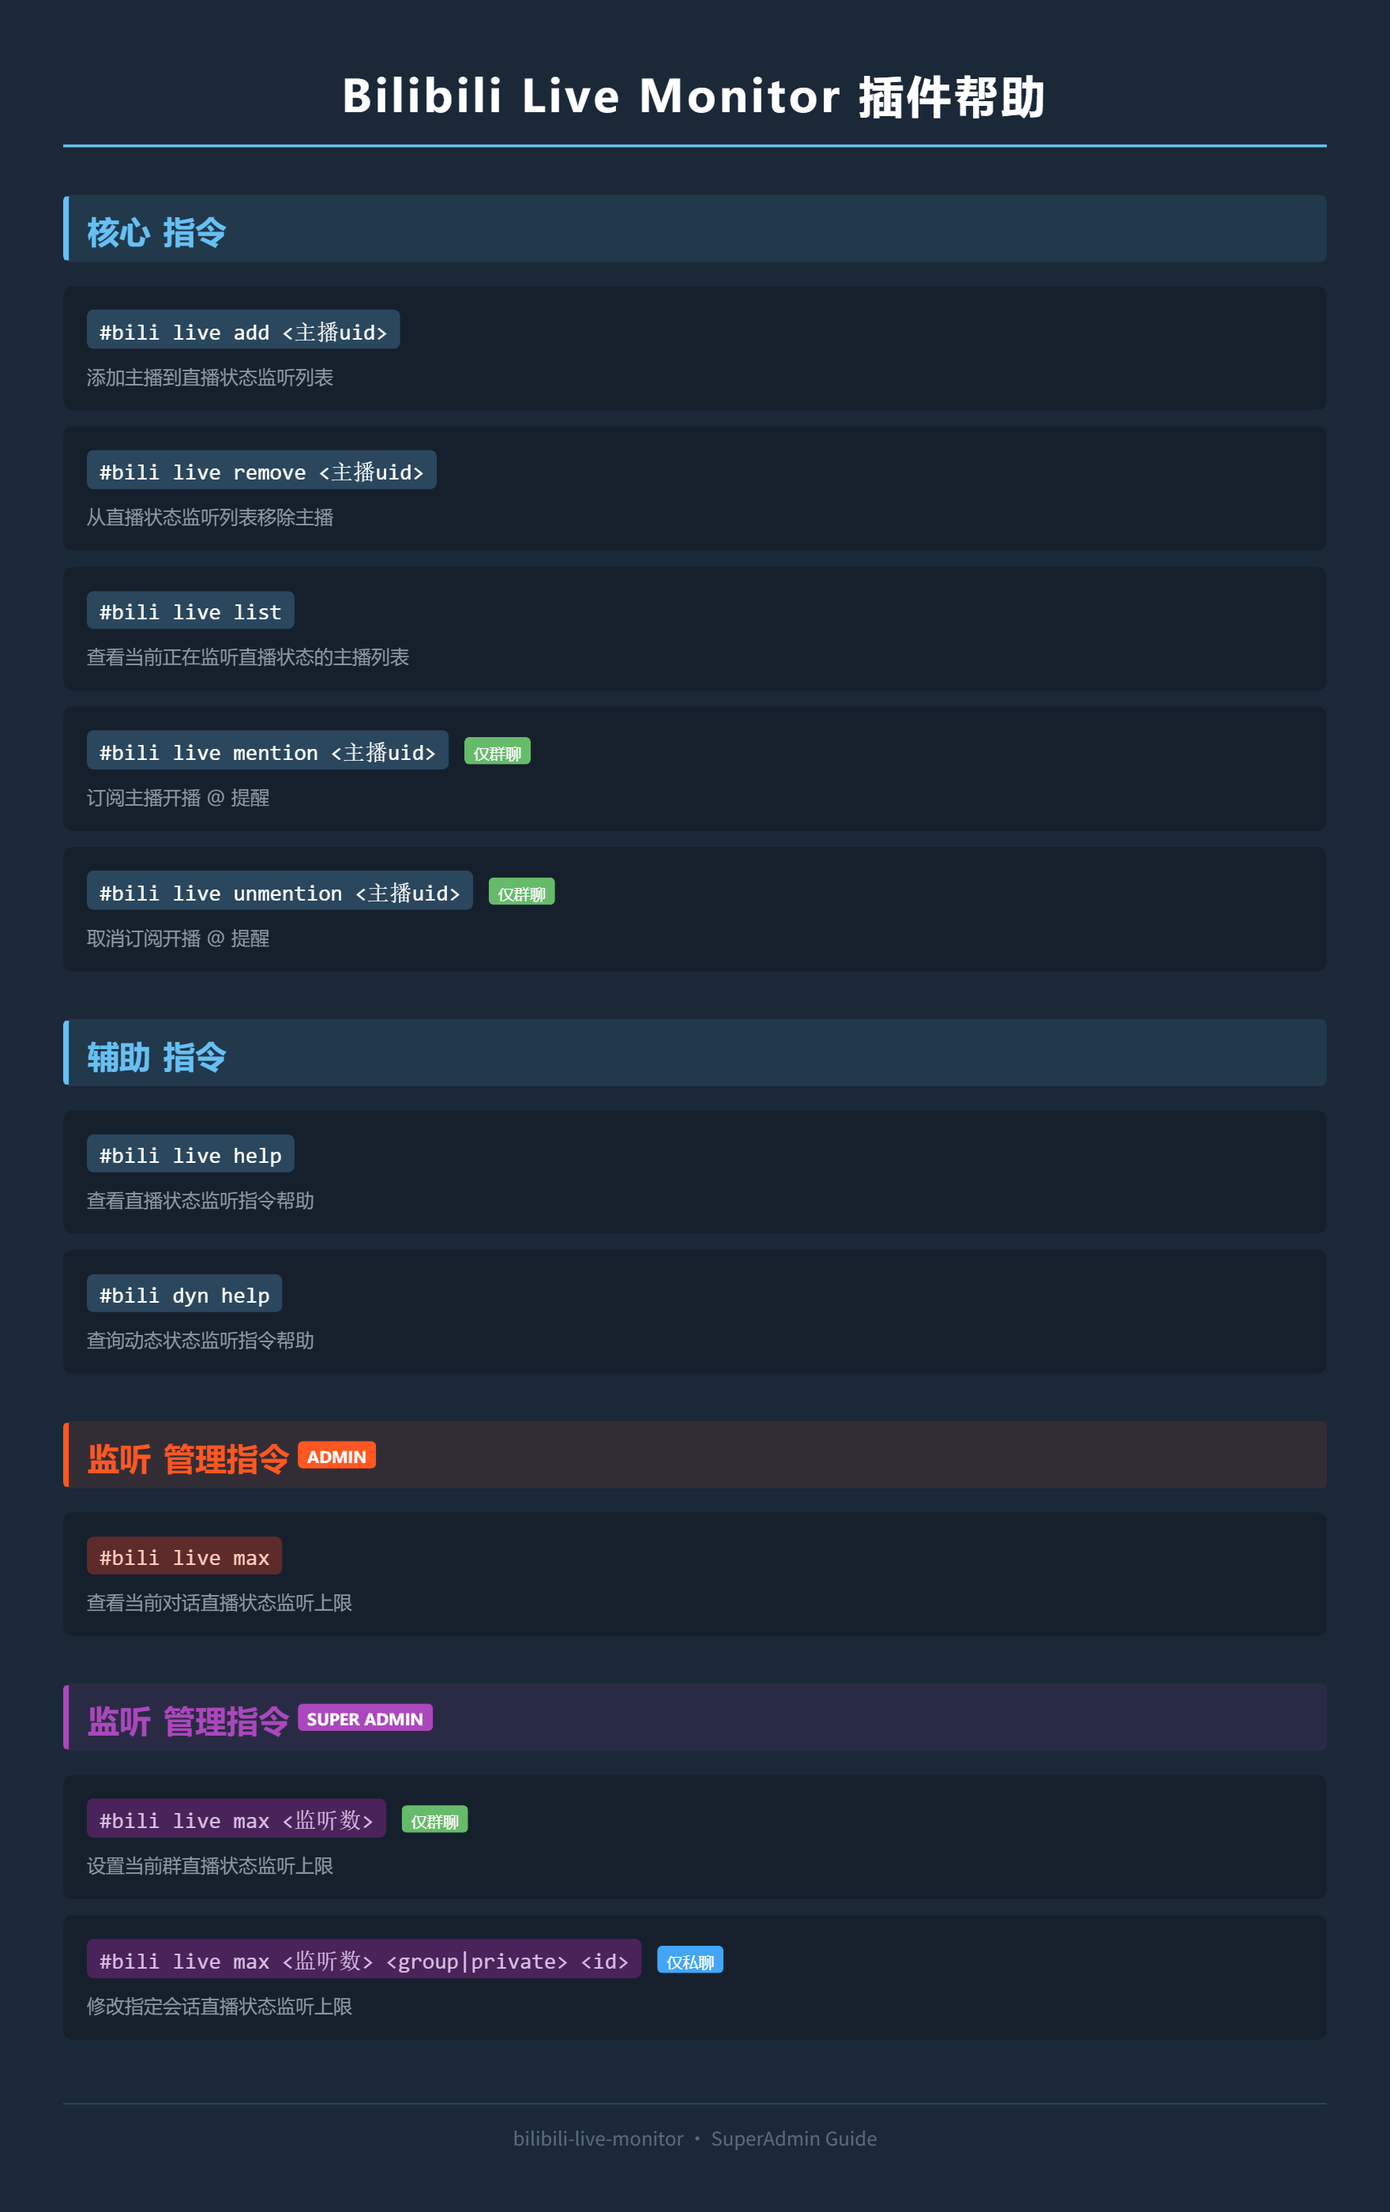
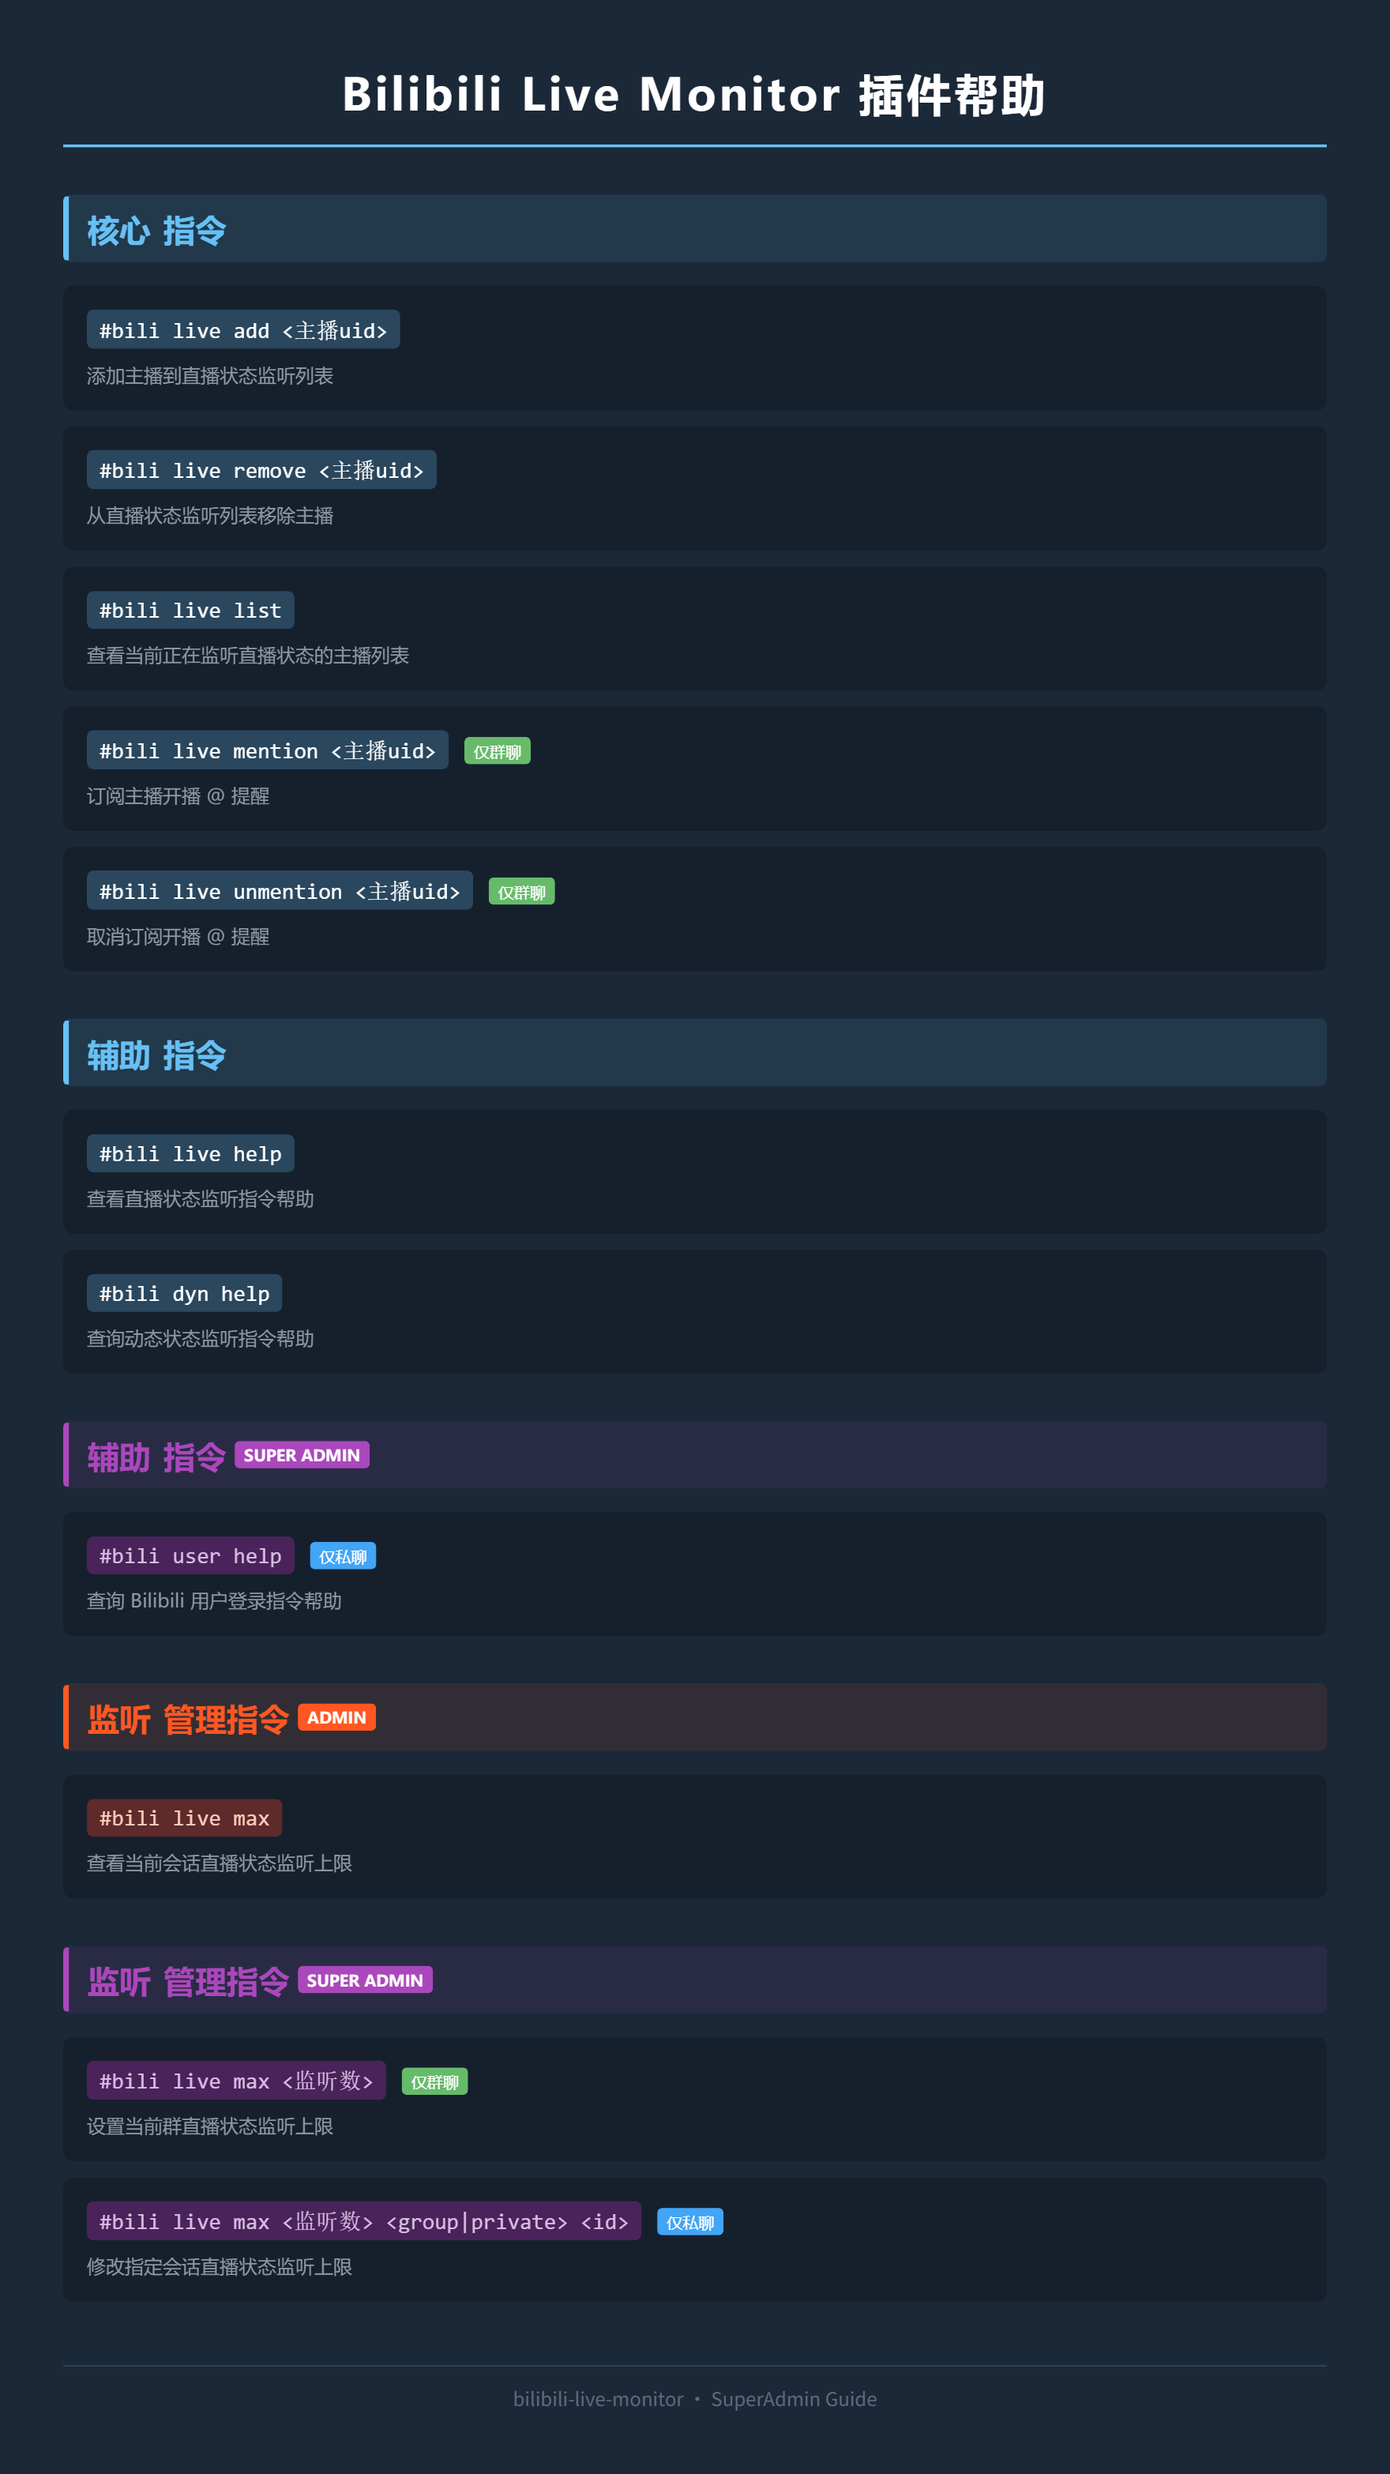
feat(user): 新增 #bili user help 帮助指令并抽离帮助输出逻辑
- 新增 help-message 共享工具: 按角色选版、图片优先/文本回退
- live help 文本改为模板字符串存储并更新内容
- 新增 user help 指令 (仅超管私聊)

Changed region(s): [[0.0312, 0.0621, 0.9688, 0.9321], [0.25, 0.0311, 0.75, 0.0621], [0.5312, 0.9632, 0.5625, 0.9943]]

diff --git a/src/handlers/live/help-live.handler.ts b/src/handlers/live/help-live.handler.ts
@@ -1,19 +1,11 @@
 /**
- * 输出 Bilibili 监听插件指令帮助
- * 默认发送按角色生成的帮助图片, 图片缺失或发送失败时回退文本帮助
- *
- * 帮助版本由角色与会话类型共同决定:
- * - 群聊超管输出 Admin 版, 仅私聊超管输出 SuperAdmin 版
- * - 私聊用户 (privateUser) 等同 admin 权限组, 输出 Admin 版
+ * 输出 Bilibili Live Monitor 插件指令帮助
+ * 帮助文本按模板字符串存储, 图片优先/文本回退逻辑见 src/utils/help-message.ts
  */
 
-import fs from 'fs';
-import { join, resolve } from 'path';
 import { NapCatPluginContext } from 'napcat-types/napcat-onebot/network/plugin/types';
 import { OB11Message } from 'napcat-types/napcat-onebot';
-import { sendReply, sendReplyByToInfo, createImageMessage } from '../message.handler';
-import { getUserRole, UserRole } from '../../core/admin';
-import { pluginState } from '../../core/state';
+import { sendHelpMessage, HelpVariant } from '../../utils/help-message';
 
 /** 帮助图片文件名 */
 const HELP_IMAGE = {
@@ -22,111 +14,69 @@ const HELP_IMAGE = {
     superAdmin: 'bilibili-live-monitor-SuperAdmin.png',
 } as const;
 
-/** 帮助图片版本 */
-type HelpVariant = keyof typeof HELP_IMAGE;
-
 /** 按帮助版本的文本帮助 (图片降级用), Admin 版同时用于私聊用户与群聊超管 */
 const HELP_TEXT_MAP: Record<HelpVariant, string> = {
-    user: [
-        '【Bilibili Live Monitor 插件帮助】',
-        '',
-        '核心指令:',
-        '#bili live add <主播uid>: 添加主播到直播状态监听列表',
-        '#bili live remove <主播uid>: 从直播状态监听列表移除主播',
-        '#bili live list: 查看当前正在监听直播状态的主播列表',
-        '#bili live mention <主播uid>: 订阅主播开播 @ 提醒 [仅群聊]',
-        '#bili live unmention <主播uid>: 取消订阅开播 @ 提醒 [仅群聊]',
-        '',
-        '辅助指令:',
-        '#bili live help: 查看直播状态监听指令帮助',
-        '#bili dyn help: 查询动态状态监听指令帮助',
-    ].join('\n'),
-    admin: [
-        '【Bilibili Live Monitor 插件帮助】',
-        '',
-        '核心指令:',
-        '#bili live add <主播uid>: 添加主播到直播状态监听列表',
-        '#bili live remove <主播uid>: 从直播状态监听列表移除主播',
-        '#bili live list: 查看当前正在监听直播状态的主播列表',
-        '#bili live mention <主播uid>: 订阅主播开播 @ 提醒 [仅群聊]',
-        '#bili live unmention <主播uid>: 取消订阅开播 @ 提醒 [仅群聊]',
-        '',
-        '辅助指令:',
-        '#bili live help: 查看直播状态监听指令帮助',
-        '#bili dyn help: 查询动态状态监听指令帮助',
-        '',
-        '监听管理指令 [管理员]:',
-        '#bili live max: 查看当前对话直播状态监听上限',
-    ].join('\n'),
-    superAdmin: [
-        '【Bilibili Live Monitor 插件帮助】',
-        '',
-        '核心指令:',
-        '#bili live add <主播uid>: 添加主播到直播状态监听列表',
-        '#bili live remove <主播uid>: 从直播状态监听列表移除主播',
-        '#bili live list: 查看当前正在监听直播状态的主播列表',
-        '#bili live mention <主播uid>: 订阅主播开播 @ 提醒 [仅群聊]',
-        '#bili live unmention <主播uid>: 取消订阅开播 @ 提醒 [仅群聊]',
-        '',
-        '辅助指令:',
-        '#bili live help: 查看直播状态监听指令帮助',
-        '#bili dyn help: 查询动态状态监听指令帮助',
-        '',
-        '监听管理指令 [管理员]:',
-        '#bili live max: 查看当前对话直播状态监听上限',
-        '',
-        '监听管理指令 [超管]:',
-        '#bili live max <监听数>: 设置当前群直播状态监听上限 [仅群聊]',
-        '#bili live max <监听数> <group|private> <id>: 修改指定会话直播状态监听上限 [仅私聊]',
-    ].join('\n'),
+    user: `【Bilibili Live Monitor 插件帮助】
+
+核心指令:
+#bili live add <主播uid>: 添加主播到直播状态监听列表
+#bili live remove <主播uid>: 从直播状态监听列表移除主播
+#bili live list: 查看当前正在监听直播状态的主播列表
+#bili live mention <主播uid>: 订阅主播开播 @ 提醒 [仅群聊]
+#bili live unmention <主播uid>: 取消订阅开播 @ 提醒 [仅群聊]
+
+辅助指令:
+#bili live help: 查看直播状态监听指令帮助
+#bili dyn help: 查询动态状态监听指令帮助
+`,
+    admin: `【Bilibili Live Monitor 插件帮助】
+
+核心指令:
+#bili live add <主播uid>: 添加主播到直播状态监听列表
+#bili live remove <主播uid>: 从直播状态监听列表移除主播
+#bili live list: 查看当前正在监听直播状态的主播列表
+#bili live mention <主播uid>: 订阅主播开播 @ 提醒 [仅群聊]
+#bili live unmention <主播uid>: 取消订阅开播 @ 提醒 [仅群聊]
+
+辅助指令:
+#bili live help: 查看直播状态监听指令帮助
+#bili dyn help: 查询动态状态监听指令帮助
+
+监听管理指令 [管理员]:
+#bili live max: 查看当前会话直播状态监听上限
+`,
+    superAdmin: `【Bilibili Live Monitor 插件帮助】
+
+核心指令:
+#bili live add <主播uid>: 添加主播到直播状态监听列表
+#bili live remove <主播uid>: 从直播状态监听列表移除主播
+#bili live list: 查看当前正在监听直播状态的主播列表
+#bili live mention <主播uid>: 订阅主播开播 @ 提醒 [仅群聊]
+#bili live unmention <主播uid>: 取消订阅开播 @ 提醒 [仅群聊]
+
+辅助指令:
+#bili live help: 查看直播状态监听指令帮助
+#bili dyn help: 查询动态状态监听指令帮助
+
+辅助指令 [超管]:
+#bili user help: 查询 Bilibili 用户登录指令帮助 [仅私聊]
+
+监听管理指令 [管理员]:
+#bili live max: 查看当前会话直播状态监听上限
+
+监听管理指令 [超管]:
+#bili live max <监听数>: 设置当前群直播状态监听上限 [仅群聊]
+#bili live max <监听数> <group|private> <id>: 修改指定会话直播状态监听上限 [仅私聊]
+`,
 };
 
-/** 由角色与会话类型决定帮助版本 */
-function getHelpVariant(role: UserRole['role'], isGroup: boolean): HelpVariant {
-    switch (role) {
-        case 'superAdmin':
-            // 群聊超管输出 Admin 版, 私聊超管输出 SuperAdmin 版
-            return isGroup ? 'admin' : 'superAdmin';
-        case 'admin':
-        case 'privateUser':
-            return 'admin';
-        default:
-            return 'user';
-    }
-}
-
 /**
- * 构建帮助图片绝对路径
- * assets 目录位于 ctx.dataPath 的父目录下
- */
-function getHelpImagePath(variant: HelpVariant): string {
-    const assetsDir = join(pluginState.ctx.dataPath, '..', 'assets');
-    return resolve(assetsDir, HELP_IMAGE[variant]);
-}
-
-/**
- * 输出 Bilibili 监听插件指令帮助
+ * 输出 Bilibili Live Monitor 插件指令帮助
  * 优先发送帮助图片, 图片缺失或发送失败时回退文本帮助
  */
 export const helpLiveHandler = async (
     ctx: NapCatPluginContext,
     event: OB11Message,
 ) => {
-    const { message_type, group_id, user_id } = event;
-    const toInfo = {
-        id: message_type === 'group' ? String(group_id) : String(user_id),
-        type: message_type,
-    } as const;
-
-    const { role } = getUserRole(event);
-    const variant = getHelpVariant(role, message_type === 'group');
-
-    // 优先发送帮助图片, 文件缺失或发送失败时回退文本帮助
-    const imagePath = getHelpImagePath(variant);
-    if (fs.existsSync(imagePath)) {
-        const sent = await sendReply(ctx, event, createImageMessage(imagePath));
-        if (sent) return;
-    }
-
-    await sendReplyByToInfo(ctx, toInfo, HELP_TEXT_MAP[variant]);
+    await sendHelpMessage(ctx, event, { imageMap: HELP_IMAGE, textMap: HELP_TEXT_MAP });
 };

diff --git a/src/utils/help-message.ts b/src/utils/help-message.ts
@@ -1,0 +1,76 @@
+/**
+ * 帮助消息输出共享工具
+ * 按角色与会话类型选择帮助版本, 优先发送帮助图片, 图片缺失或发送失败时回退文本帮助
+ *
+ * 帮助版本由角色与会话类型共同决定:
+ * - 群聊超管输出 Admin 版, 仅私聊超管输出 SuperAdmin 版
+ * - 私聊用户 (privateUser) 等同 admin 权限组, 输出 Admin 版
+ */
+
+import fs from 'fs';
+import { join, resolve } from 'path';
+import { NapCatPluginContext } from 'napcat-types/napcat-onebot/network/plugin/types';
+import { OB11Message } from 'napcat-types/napcat-onebot';
+import { sendReply, sendReplyByToInfo, createImageMessage } from '../handlers/message.handler';
+import { getUserRole, UserRole } from '../core/admin';
+import { pluginState } from '../core/state';
+
+/** 帮助版本 */
+export type HelpVariant = 'user' | 'admin' | 'superAdmin';
+
+/** 按帮助版本组织的内容: 帮助图片文件名 + 文本帮助 (图片降级用) */
+export interface HelpContent {
+    imageMap: Record<HelpVariant, string>;
+    textMap: Record<HelpVariant, string>;
+}
+
+/** 由角色与会话类型决定帮助版本 */
+export function getHelpVariant(role: UserRole['role'], isGroup: boolean): HelpVariant {
+    switch (role) {
+        case 'superAdmin':
+            // 群聊超管输出 Admin 版, 私聊超管输出 SuperAdmin 版
+            return isGroup ? 'admin' : 'superAdmin';
+        case 'admin':
+        case 'privateUser':
+            return 'admin';
+        default:
+            return 'user';
+    }
+}
+
+/**
+ * 构建帮助图片绝对路径
+ * assets 目录位于 ctx.dataPath 的父目录下
+ */
+function getHelpImagePath(imageMap: Record<HelpVariant, string>, variant: HelpVariant): string {
+    const assetsDir = join(pluginState.ctx.dataPath, '..', 'assets');
+    return resolve(assetsDir, imageMap[variant]);
+}
+
+/**
+ * 输出指令帮助
+ * 优先发送帮助图片, 图片缺失或发送失败时回退文本帮助
+ */
+export async function sendHelpMessage(
+    ctx: NapCatPluginContext,
+    event: OB11Message,
+    content: HelpContent,
+): Promise<void> {
+    const { message_type, group_id, user_id } = event;
+    const toInfo = {
+        id: message_type === 'group' ? String(group_id) : String(user_id),
+        type: message_type,
+    } as const;
+
+    const { role } = getUserRole(event);
+    const variant = getHelpVariant(role, message_type === 'group');
+
+    // 优先发送帮助图片, 文件缺失或发送失败时回退文本帮助
+    const imagePath = getHelpImagePath(content.imageMap, variant);
+    if (fs.existsSync(imagePath)) {
+        const sent = await sendReply(ctx, event, createImageMessage(imagePath));
+        if (sent) return;
+    }
+
+    await sendReplyByToInfo(ctx, toInfo, content.textMap[variant]);
+}

diff --git a/src/handlers/user/help-user.handler.ts b/src/handlers/user/help-user.handler.ts
@@ -1,0 +1,56 @@
+/**
+ * 输出 Bilibili User Monitor 插件指令帮助 (仅超管私聊)
+ * 帮助文本按模板字符串存储, 图片优先/文本回退逻辑见 src/utils/help-message.ts
+ */
+
+import { NapCatPluginContext } from 'napcat-types/napcat-onebot/network/plugin/types';
+import { OB11Message } from 'napcat-types/napcat-onebot';
+import { sendHelpMessage, HelpVariant } from '../../utils/help-message';
+
+/** 帮助图片文件名 */
+const HELP_IMAGE = {
+    user: 'bilibili-user-monitor-User.png',
+    admin: 'bilibili-user-monitor-Admin.png',
+    superAdmin: 'bilibili-user-monitor-SuperAdmin.png',
+} as const;
+
+/** 按帮助版本的文本帮助 (图片降级用), Admin 版同时用于私聊用户与群聊超管 */
+const HELP_TEXT_MAP: Record<HelpVariant, string> = {
+    user: `【Bilibili User Monitor 插件帮助】
+
+辅助指令:
+#bili live help: 查看直播状态监听指令帮助
+#bili dyn help: 查询动态状态监听指令帮助
+`,
+    admin: `【Bilibili User Monitor 插件帮助】
+
+辅助指令:
+#bili live help: 查看直播状态监听指令帮助
+#bili dyn help: 查询动态状态监听指令帮助
+`,
+    superAdmin: `【Bilibili User Monitor 插件帮助】
+
+用户登录指令 [超管]:
+#bili user login: 登录 Bilibili 账号 [仅私聊]
+#bili user logout: 登出 Bilibili 账号 [仅私聊]
+#bili user status: 查询当前 Bilibili 账号的登录状态 [仅私聊]
+
+辅助指令:
+#bili live help: 查看直播状态监听指令帮助
+#bili dyn help: 查询动态状态监听指令帮助
+
+辅助指令 [超管]:
+#bili user help: 查询 Bilibili 账号登录指令帮助 [仅私聊]
+`,
+};
+
+/**
+ * 输出 Bilibili User Monitor 插件指令帮助
+ * 优先发送帮助图片, 图片缺失或发送失败时回退文本帮助
+ */
+export const helpUserHandler = async (
+    ctx: NapCatPluginContext,
+    event: OB11Message,
+) => {
+    await sendHelpMessage(ctx, event, { imageMap: HELP_IMAGE, textMap: HELP_TEXT_MAP });
+};

diff --git a/src/handlers/instruction.handler.ts b/src/handlers/instruction.handler.ts
@@ -12,6 +12,7 @@ import { maxLiveHandler } from './live/max-live.handler';
 import { loginHandler } from './user/login.handler';
 import { logoutHandler } from './user/logout.handler';
 import { statusHandler } from './user/status.handler';
+import { helpUserHandler } from './user/help-user.handler';
 
 /** 指令作用域 */
 type InstructionScope = 'group' | 'private';
@@ -124,6 +125,14 @@ const instructionSetMapper: Record<string, Record<string, InstructionDefinition>
         },
         logout: {
             handler: logoutHandler,
+            requiredRole: 'superAdmin',
+            scope: 'private',
+        },
+        /**
+         * 查看用户登录指令帮助 (仅私聊, 超管)
+         */
+        help: {
+            handler: helpUserHandler,
             requiredRole: 'superAdmin',
             scope: 'private',
         },
